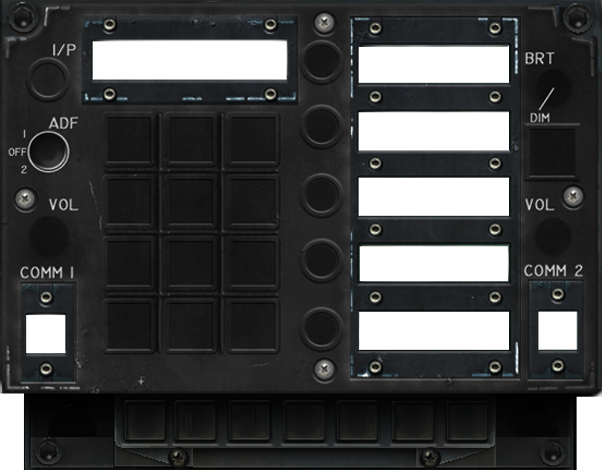
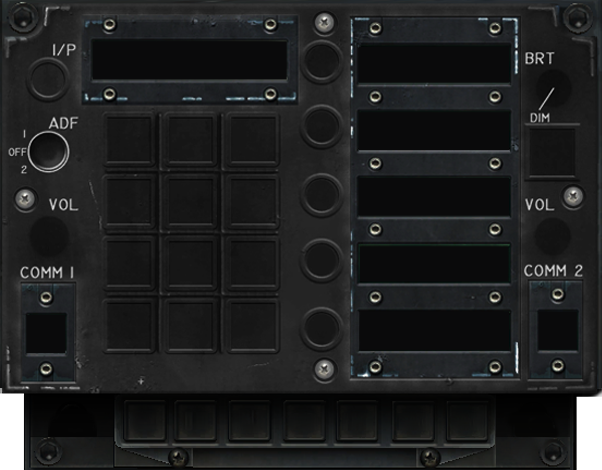
improvement on ufc v2

diff --git a/Helios/Gauges/FA-18C/UFCv2/UFC_v2.cs b/Helios/Gauges/FA-18C/UFCv2/UFC_v2.cs
@@ -72,20 +72,34 @@ namespace GadrocsWorkshop.Helios.Gauges.FA18C
             AddButtonIP("Radio 2 Pull", 523, 408, new Size(28, 28),false);
 
             /// adding the diplays
-            int heightDisp = 35;
-            int SPWidth = 30;
+            int heightDisp = 34;
+            int SPWidth = 45;
             int SPHeight = 50;
-            int SPStart = 90;
-            AddTextDisplay16Segment("ScratchPad1", SPStart, heightDisp, new Size(SPWidth + 1, SPHeight), "+");
-            AddTextDisplay16Segment("ScratchPad2", SPStart + SPWidth, heightDisp, new Size(SPWidth + 1, SPHeight), "-");
-            AddTextDisplay7Segment("Scratchpad Number", SPStart + 2 * SPWidth, heightDisp, new Size(150, SPHeight), "305.000");
+            int SPStart = 100;
+            double fontSize1 = 22;
+            AddTextDisplaySegment("ScratchPad1", SPStart, heightDisp, new Size(SPWidth + 1, SPHeight), "20", fontSize1, TextHorizontalAlignment.Left);
+            AddTextDisplaySegment("ScratchPad2", SPStart + SPWidth, heightDisp, new Size(SPWidth + 1, SPHeight), "--", fontSize1, TextHorizontalAlignment.Left);
+            AddTextDisplaySegment("Scratchpad Number", SPStart + 2 * SPWidth, heightDisp, new Size(150, SPHeight), "305.000", fontSize1, TextHorizontalAlignment.Left);
 
-            AddTextDisplay16Segment("Radio Channel 1", 25, 314, new Size(42, 42), "+");
+            int rightDispWidth = 160;
+            int rightDispX = 360;
+            int rightDispSpacing = 67;
+            int rightDispY = 40;
+            double fontSize2 = 27;
+            AddTextDisplaySegment("Option Display 1", rightDispX, rightDispY, new Size(rightDispWidth, SPHeight), " GRCV", fontSize2, TextHorizontalAlignment.Left);
+            AddTextDisplaySegment("Option Display 2", rightDispX, rightDispY + rightDispSpacing, new Size(rightDispWidth, SPHeight), ":SQCH", fontSize2, TextHorizontalAlignment.Left);
+            AddTextDisplaySegment("Option Display 3", rightDispX, rightDispY + 2 * rightDispSpacing, new Size(rightDispWidth, SPHeight), " CPHR", fontSize2, TextHorizontalAlignment.Left);
+            AddTextDisplaySegment("Option Display 4", rightDispX, rightDispY + 3 * rightDispSpacing, new Size(rightDispWidth, SPHeight), ":AM", fontSize2, TextHorizontalAlignment.Left);
+            AddTextDisplaySegment("Option Display 5", rightDispX, rightDispY + 4 * rightDispSpacing, new Size(rightDispWidth, SPHeight), " MENU", fontSize2, TextHorizontalAlignment.Left);
+
+            double fontRadio = 25;
+            AddTextDisplaySegment("Radio Channel 1", 20, 314, new Size(42, 42), "20", fontRadio, TextHorizontalAlignment.Right);
+            AddTextDisplaySegment("Radio Channel 2", 530, 314, new Size(42, 42), "1", fontRadio, TextHorizontalAlignment.Right);
         }
 
         public override string BezelImage
         {
-            get { return "{Helios}/Gauges/FA-18C/UFC/UFC Faceplate.png"; }
+            get { return "{Helios}/Gauges/FA-18C/UFCv2/UFC Faceplate.png"; }
         }
             
         private void AddTrigger(IBindingTrigger trigger, string device)
@@ -154,34 +168,8 @@ namespace GadrocsWorkshop.Helios.Gauges.FA18C
             //AddAction(_knob.Actions["release"], name);
         }
 
-        private void AddTextDisplay16Segment(string name, double x, double y, Size size, string testDisp) {
-            Helios.Controls.TextDisplay display = new Helios.Controls.TextDisplay
-            {
-                Top = y,
-                Left = x,
-                Width = size.Width,
-                Height = size.Height,
-                Name = name
-            };
-            // display.FontSize = 20;
-            TextFormat textFormat = new TextFormat
-            {
-                FontFamily = new FontFamily("Hornet_UFC"),
-                HorizontalAlignment = TextHorizontalAlignment.Center,
-                VerticalAlignment = TextVerticalAlignment.Center,
-                FontSize = 25
-            };
-            // textFormat.FontFamily.Baseline = 0.01;
-            // textFormat.PaddingRight = 3;
-            display.TextFormat = textFormat;
-            display.OnTextColor = Color.FromRgb(10, 200, 10);
-            display.TextTestValue = testDisp;
-            // display.OnImage = "{Helios}/Images/Indicators/indicator.png";
-            Children.Add(display);
-            AddAction(display.Actions["set.TextDisplay"], "UFC Display " + name);
-        }
-
-        private void AddTextDisplay7Segment(string name, double x, double y, Size size, string testText)
+        private void AddTextDisplaySegment(string name, double x, double y, Size size, string testDisp, 
+            double fontSize, TextHorizontalAlignment horizAlign)
         {
             Helios.Controls.TextDisplay display = new Helios.Controls.TextDisplay
             {
@@ -194,19 +182,77 @@ namespace GadrocsWorkshop.Helios.Gauges.FA18C
             // display.FontSize = 20;
             TextFormat textFormat = new TextFormat
             {
-                FontFamily = new FontFamily("Hornet_UFC Numerals"),
-                HorizontalAlignment = TextHorizontalAlignment.Left,
+                FontFamily = new FontFamily("Hornet_UFC"),
+                HorizontalAlignment = horizAlign,
                 VerticalAlignment = TextVerticalAlignment.Center,
-                FontSize = 25
+                FontSize = fontSize
             };
-            textFormat.PaddingRight = 0.02;
+            // textFormat.FontFamily.Baseline = 0.01;
+            // textFormat.PaddingRight = 3;
+            display.UseBackground = false;
             display.TextFormat = textFormat;
             display.OnTextColor = Color.FromRgb(10, 200, 10);
-            display.TextTestValue = testText;
+            display.TextTestValue = testDisp;
             // display.OnImage = "{Helios}/Images/Indicators/indicator.png";
             Children.Add(display);
             AddAction(display.Actions["set.TextDisplay"], "UFC Display " + name);
         }
+
+        //private void AddTextDisplaySegment1(string name, double x, double y, Size size, string testDisp, double fontSize=25) {
+        //    Helios.Controls.TextDisplay display = new Helios.Controls.TextDisplay
+        //    {
+        //        Top = y,
+        //        Left = x,
+        //        Width = size.Width,
+        //        Height = size.Height,
+        //        Name = name
+        //    };
+        //    // display.FontSize = 20;
+        //    TextFormat textFormat = new TextFormat
+        //    {
+        //        FontFamily = new FontFamily("Hornet_UFC"),
+        //        HorizontalAlignment = TextHorizontalAlignment.Center,
+        //        VerticalAlignment = TextVerticalAlignment.Center,
+        //        FontSize = fontSize
+        //    };
+        //    // textFormat.FontFamily.Baseline = 0.01;
+        //    // textFormat.PaddingRight = 3;
+        //    display.UseBackground = false;
+        //    display.TextFormat = textFormat;
+        //    display.OnTextColor = Color.FromRgb(10, 200, 10);
+        //    display.TextTestValue = testDisp;
+        //    // display.OnImage = "{Helios}/Images/Indicators/indicator.png";
+        //    Children.Add(display);
+        //    AddAction(display.Actions["set.TextDisplay"], "UFC Display " + name);
+        //}
+
+        //private void AddTextDisplaySegment2(string name, double x, double y, Size size, string testText, double fontSize=25)
+        //{
+        //    Helios.Controls.TextDisplay display = new Helios.Controls.TextDisplay
+        //    {
+        //        Top = y,
+        //        Left = x,
+        //        Width = size.Width,
+        //        Height = size.Height,
+        //        Name = name
+        //    };
+        //    // display.FontSize = 20;
+        //    TextFormat textFormat = new TextFormat
+        //    {
+        //        FontFamily = new FontFamily("Hornet_UFC"),
+        //        HorizontalAlignment = TextHorizontalAlignment.Left,
+        //        VerticalAlignment = TextVerticalAlignment.Center,
+        //        FontSize = fontSize
+        //    };
+        //    display.UseBackground = false;
+        //    textFormat.PaddingRight = 0.02;
+        //    display.TextFormat = textFormat;
+        //    display.OnTextColor = Color.FromRgb(10, 200, 10);
+        //    display.TextTestValue = testText;
+        //    // display.OnImage = "{Helios}/Images/Indicators/indicator.png";
+        //    Children.Add(display);
+        //    AddAction(display.Actions["set.TextDisplay"], "UFC Display " + name);
+        //}
 
         private void AddButton(string name, double x, double y, Size size) { AddButton(name, x, y, size, false); }
         private void AddButton(string name, double x, double y, Size size, bool altImage)
